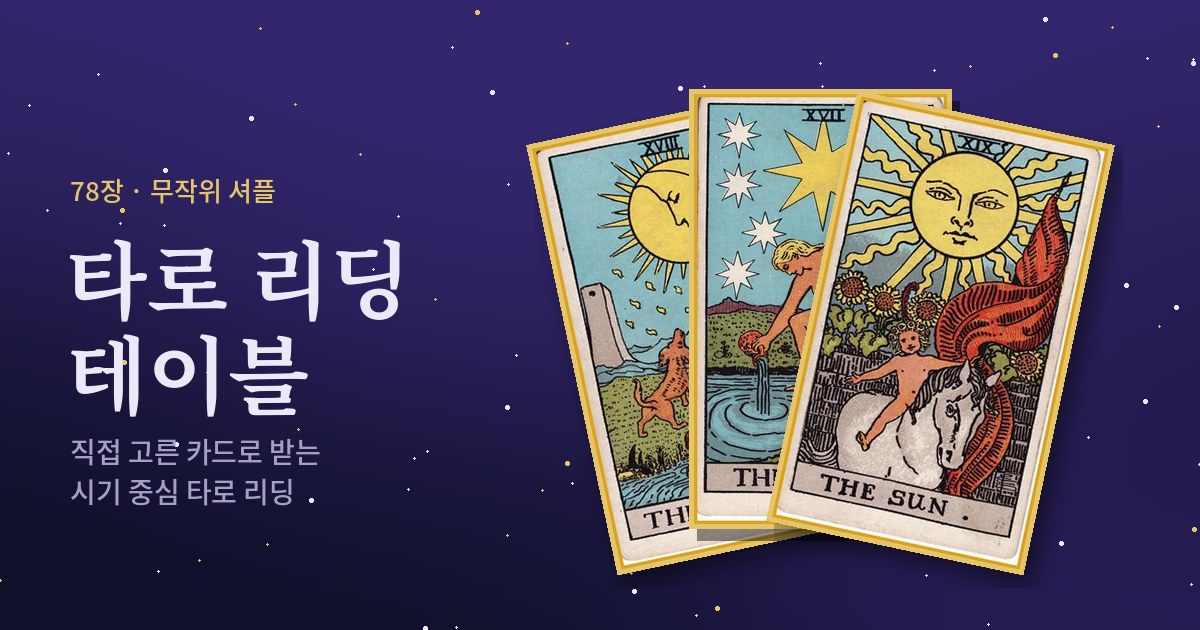
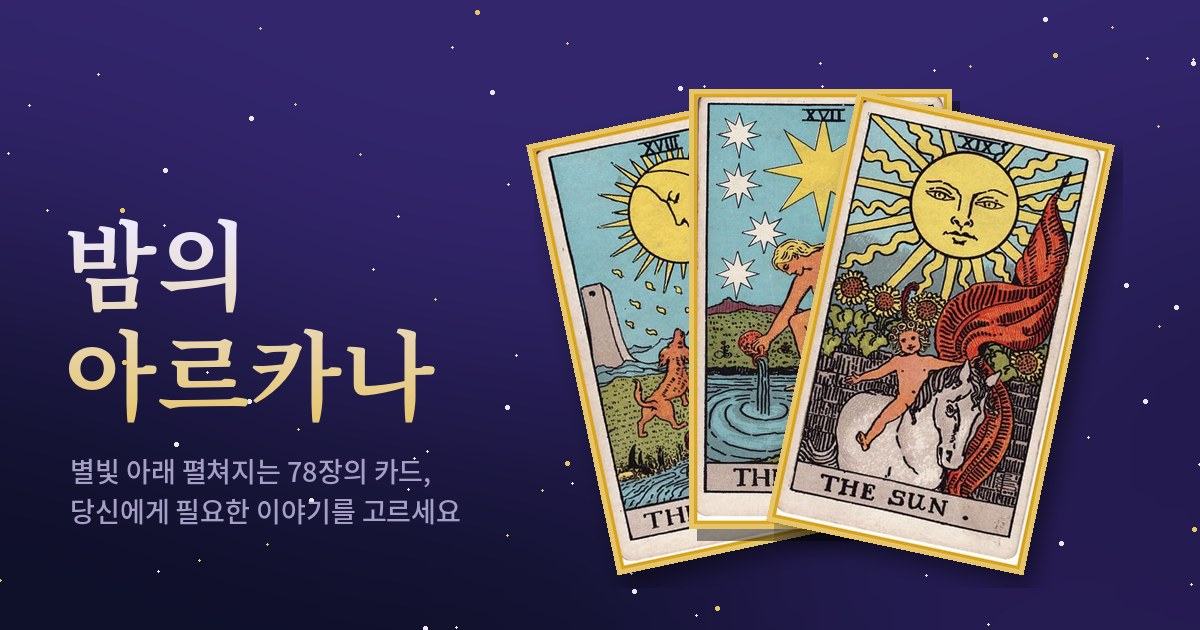
Add files via upload

Changed region(s): [[0.0308, 0.2714, 0.37, 0.6635], [0.0617, 0.6937, 0.4008, 0.8444]]

diff --git a/index.html b/index.html
@@ -3,27 +3,27 @@
 <head>
 <meta charset="utf-8">
 <meta name="viewport" content="width=device-width, initial-scale=1, viewport-fit=cover">
-<meta name="description" content="질문을 적고 78장 중 직접 카드를 골라, 내 AI에게 바로 붙여넣는 시기 중심 타로 리딩.">
+<meta name="description" content="별빛 아래 펼쳐지는 78장의 카드. 직접 고른 카드로 당신의 AI에게 건넬 타로 리딩 프롬프트를 만들어 보세요.">
 <meta name="theme-color" content="#0f1029">
 <link rel="icon" type="image/png" href="favicon.png">
 <link rel="apple-touch-icon" href="apple-touch-icon.png">
 <meta property="og:type" content="website">
-<meta property="og:site_name" content="타로 리딩 테이블">
-<meta property="og:title" content="타로 리딩 테이블">
-<meta property="og:description" content="질문을 적고 78장 중 직접 카드를 골라, 내 AI에게 바로 붙여넣는 시기 중심 타로 리딩.">
+<meta property="og:site_name" content="밤의 아르카나">
+<meta property="og:title" content="밤의 아르카나">
+<meta property="og:description" content="별빛 아래 펼쳐지는 78장의 카드. 직접 고른 카드로 당신의 AI에게 건넬 타로 리딩 프롬프트를 만들어 보세요.">
 <meta property="og:url" content="https://ribosome-maker.github.io/tarot/">
-<meta property="og:image" content="https://ribosome-maker.github.io/tarot/og.jpg">
+<meta property="og:image" content="https://ribosome-maker.github.io/tarot/og.jpg?v=2">
 <meta property="og:image:width" content="1200">
 <meta property="og:image:height" content="630">
 <meta property="og:locale" content="ko_KR">
 <meta name="twitter:card" content="summary_large_image">
-<meta name="twitter:title" content="타로 리딩 테이블">
-<meta name="twitter:description" content="질문을 적고 78장 중 직접 카드를 골라, 내 AI에게 바로 붙여넣는 시기 중심 타로 리딩.">
-<meta name="twitter:image" content="https://ribosome-maker.github.io/tarot/og.jpg">
+<meta name="twitter:title" content="밤의 아르카나">
+<meta name="twitter:description" content="별빛 아래 펼쳐지는 78장의 카드. 직접 고른 카드로 당신의 AI에게 건넬 타로 리딩 프롬프트를 만들어 보세요.">
+<meta name="twitter:image" content="https://ribosome-maker.github.io/tarot/og.jpg?v=2">
 <style>[hidden]{display:none!important}img{max-width:100%}body{margin:0}</style>
 </head>
 <body>
-<title>타로 리딩 테이블</title>
+<title>밤의 아르카나</title>
 <link rel="preconnect" href="https://fonts.googleapis.com">
 <link rel="preconnect" href="https://fonts.gstatic.com" crossorigin>
 <link rel="stylesheet" href="https://fonts.googleapis.com/css2?family=Gowun+Batang:wght@400;700&family=IBM+Plex+Sans+KR:wght@400;500;600&family=Cormorant+Garamond:ital,wght@1,500;1,600&display=swap">
@@ -75,8 +75,11 @@ body {
 .wrap { max-width: 860px; margin: 0 auto; display: grid; gap: 28px; }
 header { display: grid; gap: 6px; }
 .eyebrow { font-size: 12px; letter-spacing: .14em; color: var(--brass); text-transform: uppercase; }
-h1 { font-family: var(--f-display); font-weight: 700; font-size: clamp(28px, 6vw, 40px); line-height: 1.2; margin: 0; text-wrap: balance; }
-.lede { color: var(--muted); margin: 0; max-width: 60ch; }
+h1 { font-family: var(--f-display); font-weight: 700; font-size: clamp(36px, 9vw, 58px); line-height: 1.1; letter-spacing: -.01em; margin: 0; text-wrap: balance;
+  color: var(--ivory); background: linear-gradient(180deg, var(--ivory) 35%, var(--brass) 100%); -webkit-background-clip: text; background-clip: text; -webkit-text-fill-color: transparent; }
+h1 .star { -webkit-text-fill-color: var(--brass); color: var(--brass); font-size: .45em; vertical-align: .9em; margin-left: .15em; }
+.lede { color: var(--muted); margin: 0; max-width: 58ch; font-size: 15.5px; line-height: 1.85; }
+.field-sub { font-size: 12px; }
 
 section.panel {
   background: linear-gradient(180deg, rgba(52,38,112,.55), var(--felt-2) 60%);
@@ -257,19 +260,18 @@ a.btn { text-decoration: none; display: inline-block; }
 
 <div class="wrap">
   <header>
-    <div class="eyebrow">78장 · 무작위 셔플 · 정역 랜덤</div>
-    <h1>타로 리딩 테이블</h1>
-    <p class="lede">질문을 적고 카드를 섞으면, 뒷면으로 깔린 78장 중에서 직접 골라. 고른 카드는 자리마다 놓이고, 내 AI에 붙여넣기만 하면 되는 리딩 프롬프트가 만들어져.</p>
+    <h1>밤의 아르카나<span class="star" aria-hidden="true">✦</span></h1>
+    <p class="lede">마음속에 오래 머물러 있던 질문이 있나요? 질문을 적고 카드를 섞으면, 별빛 아래로 78장의 카드가 조용히 펼쳐집니다. 손끝이 머무는 카드를 한 장씩 골라 자리마다 내려놓으세요. 우연처럼 보이는 그 선택이, 지금 당신에게 필요한 이야기를 꺼내 줄 거예요. 카드가 모두 놓이면 당신의 AI에게 그대로 건넬 리딩 프롬프트가 완성됩니다.</p>
   </header>
 
   <section class="panel" id="stepAsk">
     <div class="step-head"><span class="step-no">i</span><h2>질문</h2></div>
     <div class="field" style="gap:10px">
-      <span>분야를 고르면 예시 질문이 나와</span>
+      <span class="field-sub">분야를 고르시면 예시 질문이 나와요</span>
       <div class="cats" id="cats" role="group" aria-label="질문 분야"></div>
       <div class="ex-list" id="exList" aria-label="예시 질문"></div>
     </div>
-    <label class="field" for="q">질문 (예시를 누르고 내 상황에 맞게 고쳐 써도 돼)
+    <label class="field" for="q">질문 (예시를 누르고 내 상황에 맞게 고쳐 쓰셔도 돼요)
       <textarea id="q" placeholder="예: 10월 7일에 본 면접, 10월 8일 발표에서 합격할 수 있을까?"></textarea>
     </label>
     <div class="field" style="gap:10px">
